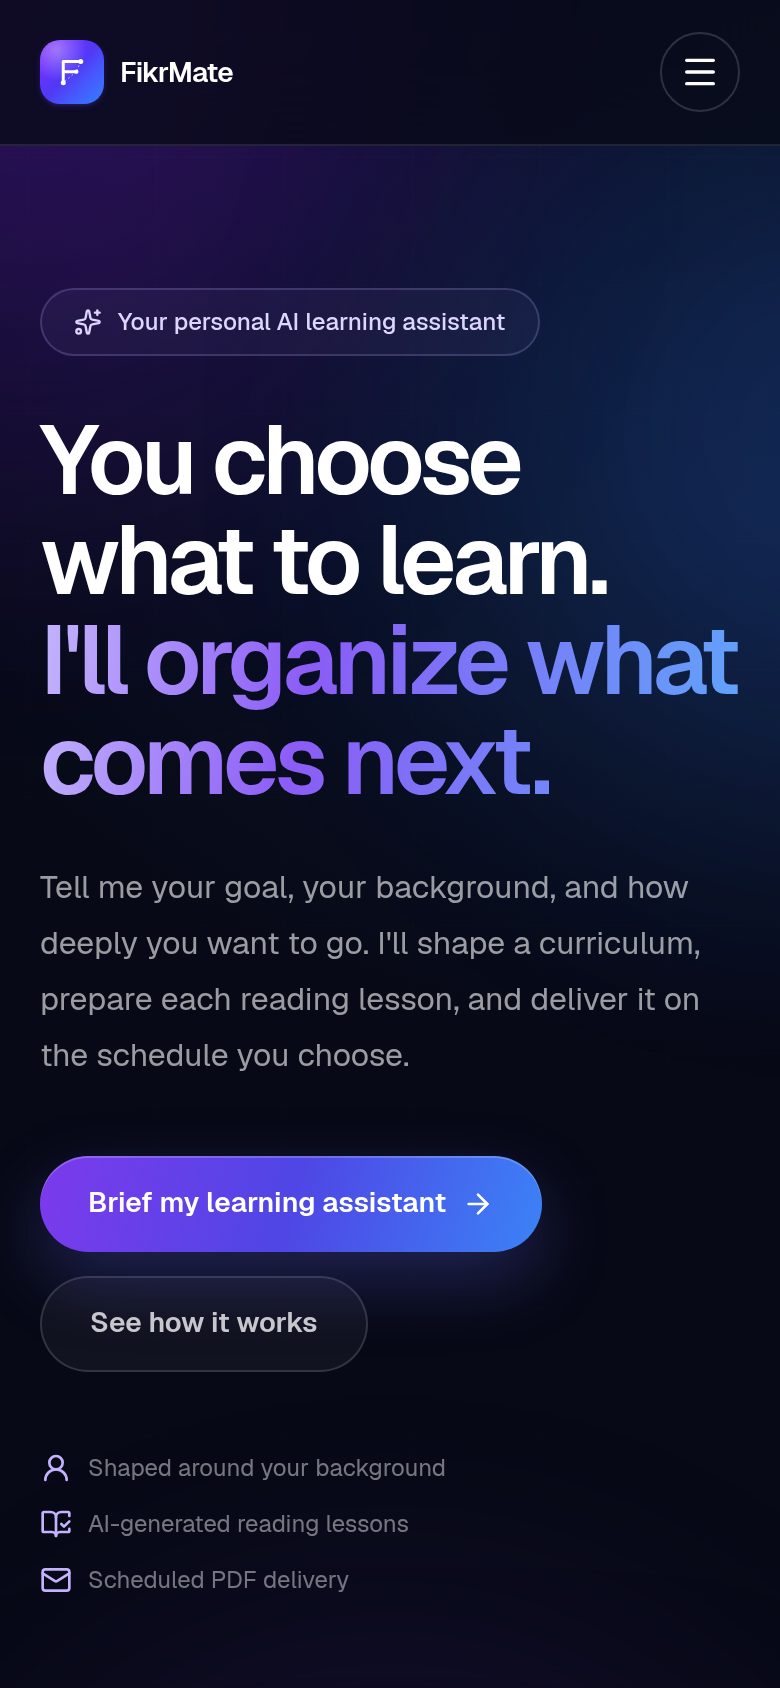
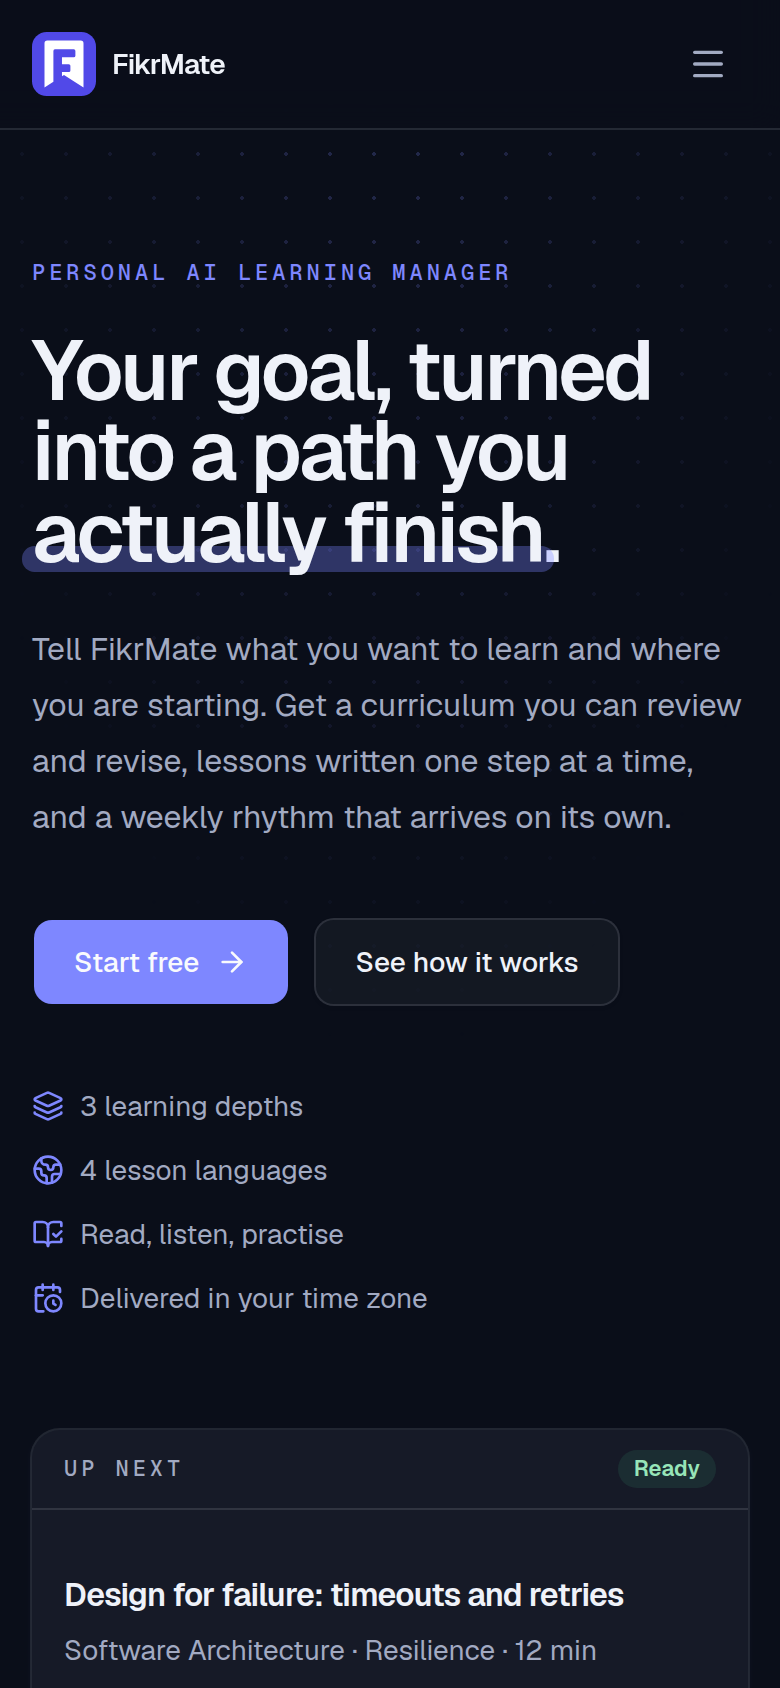
refresh fikrmate showcase for its revamped UI
Re-capture the desktop and mobile shots from the rebuilt FikrMate landing
and align the copy with what that page now says.

- capture-portfolio: FikrMate is shot in dark mode (`scheme`), and
  FIKRMATE_URL points the shot at a local or staging build before deploy.
  The injected capture CSS also hides the Next.js dev-tools badge.
- Work.astro: panel gradient derived from the new shot (bg #0a0e19) and
  the brand violet #5149e8.
- en/id/ja: new tagline, challenge, built and highlights — a curriculum
  that is revised before anything is written, one lesson in four forms,
  weekly delivery in the learner's time zone, credit ledger with refunds.
  The Indonesian tagline was untranslated English; fixed.

diff --git a/src/i18n/ja.ts b/src/i18n/ja.ts
@@ -112,11 +112,11 @@ const ja: Dict = {
         name: 'FikrMate',
         category: 'SaaS · Webアプリ',
         type: 'AI 学習プラットフォーム',
-        tagline: '学ぶものはあなたが選ぶ。次に何をやるかは、こちらが整えます。',
-        challenge: '独学の人は、散らばった教材に埋もれてしまいます。構成も、リズムも、次の一歩を用意してくれる人もいません。',
+        tagline: '目標を、最後までやり切れる学習の道筋に変える。',
+        challenge: '独学の人に足りないのは教材ではなく、多すぎることそのものです。新しい分野には自明な順序がなく、毎回「どこまでやったか」から始まり、二週目あたりで意欲が尽きます。',
         built:
-          '短い学習の希望から AI がカリキュラムを生成し、予定どおりに教材をメール（PDF）または Web で届ける Webアプリ。多言語対応、AI の個別チューター、サブスクリプションつき。',
-        highlights: ['AI カリキュラム生成', '予定配信メール', 'サブスクとクレジット', '多言語対応'],
+          '短い学習ブリーフから AI がカリキュラムを組み、書き始める前に内容を確認して修正できる Webアプリ。各レッスンは読む・聴く（メールに添付される MP3）・訊く（文脈を把握したチューター）・解く（クイズ）の四つの形で用意され、利用者のタイムゾーンに合わせて毎週届きます。消費したクレジットはすべて記録され、失敗した処理は自動で返却されます。',
+        highlights: ['修正できる AI カリキュラム', '読む・聴く・訊く・解く', 'タイムゾーンに合わせた週次配信', 'クレジット明細と自動返却', '多言語対応'],
         url: 'https://fikrmate.com',
         host: 'fikrmate.com',
         service: 'web_app',

diff --git a/src/i18n/id.ts b/src/i18n/id.ts
@@ -105,11 +105,11 @@ const id: Dict = {
         name: 'FikrMate',
         category: 'SaaS · Aplikasi web',
         type: 'Platform belajar berbasis AI',
-        tagline: 'You choose what to learn. I’ll organize what comes next.',
-        challenge: 'Pembelajar mandiri tenggelam dalam materi yang berserakan, tanpa struktur, tanpa ritme, dan tanpa ada yang menyiapkan langkah berikutnya.',
+        tagline: 'Tujuanmu, diubah jadi jalur belajar yang benar-benar kamu selesaikan.',
+        challenge: 'Pembelajar mandiri bukan kekurangan materi — justru kelimpahannya yang membuat mandek. Topik baru tidak punya urutan yang jelas, tiap sesi dibuka lagi dengan “tadi sampai mana”, dan semangat habis di minggu kedua.',
         built:
-          'Aplikasi web yang mengubah brief belajar singkat menjadi kurikulum buatan AI, lalu mengirim materi terjadwal lewat email (PDF) atau web, lengkap dengan konten multibahasa, tutor AI per materi, dan paket langganan.',
-        highlights: ['Mesin kurikulum AI', 'Pengiriman email terjadwal', 'Langganan & kredit', 'Multibahasa'],
+          'Aplikasi web yang mengubah brief belajar singkat menjadi kurikulum AI yang bisa ditinjau dan direvisi sebelum apa pun ditulis, lalu menyiapkan tiap materi dalam empat bentuk — bacaan, podcast MP3 yang dilampirkan di email, tutor yang sudah memegang konteks materinya, dan kuis — serta mengirimkannya tiap minggu sesuai zona waktu penggunanya. Setiap kredit yang terpakai tercatat, dan langkah yang gagal dikembalikan otomatis.',
+        highlights: ['Kurikulum AI yang bisa direvisi', 'Baca, dengar, tanya, latihan', 'Pengiriman mingguan sesuai zona waktu', 'Catatan kredit & refund otomatis', 'Multibahasa'],
         url: 'https://fikrmate.com',
         host: 'fikrmate.com',
         service: 'web_app',

diff --git a/src/i18n/en.ts b/src/i18n/en.ts
@@ -148,11 +148,11 @@ const en = {
         name: 'FikrMate',
         category: 'SaaS · Web app',
         type: 'AI learning platform',
-        tagline: 'You choose what to learn. I’ll organize what comes next.',
-        challenge: 'Self-learners drown in scattered material with no structure, no rhythm and no one to keep the next step ready.',
+        tagline: 'Your goal, turned into a path you actually finish.',
+        challenge: 'Self-learners are not short of material — the abundance is what stalls them. A new subject has no obvious order, every session reopens with “where was I”, and motivation runs out around week two.',
         built:
-          'A web app that turns a short learning brief into an AI-generated curriculum and delivers scheduled lessons by email (PDF) or on the web, with multilingual content, an AI lesson tutor and subscription plans.',
-        highlights: ['AI curriculum engine', 'Scheduled email delivery', 'Subscriptions & credits', 'Multilingual'],
+          'A web app that turns a short learning brief into an AI curriculum the learner reviews and revises before anything is written, then prepares every lesson in four forms — reading, a narrated MP3 attached to the email, a tutor that already has the lesson in context, and a quiz — and delivers them weekly in the learner’s own time zone. Every credit spent is logged, and steps that fail are refunded automatically.',
+        highlights: ['Revisable AI curriculum', 'Read, listen, ask, practise', 'Weekly delivery in your time zone', 'Credit ledger & auto-refunds', 'Multilingual'],
         url: 'https://fikrmate.com',
         host: 'fikrmate.com',
         service: 'web_app',

diff --git a/docs/DEVELOPMENT.md b/docs/DEVELOPMENT.md
@@ -161,15 +161,18 @@ capture script, dan screenshot tinggi.
 | --- | --- | --- |
 | `make-assets.mjs` | favicon.svg, src/assets/founder.jpg, copy di script | Menimpa OG EN/ID, apple icon, logo.png, public/founder.jpg |
 | `make-hero.mjs` | Template/copy EN/ID di script | Menimpa src/assets/hero-site-en.png dan hero-site-id.png |
-| `capture-portfolio.mjs [key...]` | URL project/demo, Chrome, BASE_URL | Menimpa src/assets/work/*.png |
+| `capture-portfolio.mjs [key...]` | URL project/demo, Chrome, BASE_URL, FIKRMATE_URL | Menimpa src/assets/work/*.png |
 | `split-shot.py file.png height` | Screenshot panjang, Python + Pillow | Potongan file -pN.png |
 | `fetch-sample-photos.mjs [arden\|kurohane]` | Manifest foto di dalam script, jaringan | Menulis `public/samples/<key>/img/*.webp` + `CREDITS.md`; melewati file yang sudah ada kecuali `--force` |
 
 Capture portfolio tanpa key juga membuka proyek eksternal. Script memerlukan
 site konsep lokal untuk Tegak/Lembar/Arden/Kurohane, default BASE_URL
-localhost:4321. Capture dijalankan dengan `reducedMotion` dan menunggu gambar
-`loading="lazy"` selesai, supaya hasilnya tidak menangkap animasi setengah jalan
-atau kotak gambar kosong. Hindari
+localhost:4321. FikrMate dipotret dengan `colorScheme: 'dark'` (field `scheme`
+pada entry-nya) karena panel di `Work.astro` disetel untuk shot gelap — mengubah
+salah satunya berarti menyetel ulang yang lain. `FIKRMATE_URL` mengarahkan shot
+itu ke build lokal atau staging sebelum di-deploy. Capture dijalankan dengan
+`reducedMotion` dan menunggu gambar `loading="lazy"` selesai, supaya hasilnya
+tidak menangkap animasi setengah jalan atau kotak gambar kosong. Hindari
 regenerasi massal saat tugas hanya copy teks; aset hasil capture dapat berbeda
 karena sumber eksternal atau browser.
 

diff --git a/README.md b/README.md
@@ -54,7 +54,7 @@ Kalau `OPENAI_API_KEY` / `GMAIL_APP_PASSWORD` kosong saat `npm run dev`, konsult
 | `node scripts/e2e-consult.mjs http://localhost:4321 id 375` | Menjalankan seluruh alur konsultasi di browser |
 | `node scripts/make-assets.mjs` | Membuat ulang gambar OG, apple-touch-icon, dan `public/founder.jpg` |
 | `node scripts/make-hero.mjs` | Membuat ulang mockup company profile di laptop hero (EN + ID). Teks & desain ada di dalam script |
-| `node scripts/capture-portfolio.mjs [key]` | Mengambil ulang screenshot desktop + HP proyek portofolio. Konsep (`public/samples/*`: `tegak`, `lembar`, `arden`, `kurohane`) diambil dari `npm run dev` sebagai satu screenshot tinggi |
+| `node scripts/capture-portfolio.mjs [key]` | Mengambil ulang screenshot desktop + HP proyek portofolio. Konsep (`public/samples/*`: `tegak`, `lembar`, `arden`, `kurohane`) diambil dari `npm run dev` sebagai satu screenshot tinggi. FikrMate dipotret dalam **tema gelap** (`scheme` di dalam script), dan `FIKRMATE_URL` mengarahkannya ke build lokal/staging alih-alih situs live |
 | `node scripts/fetch-sample-photos.mjs [arden\|kurohane]` | Mengunduh ulang foto demo konsep dari Pexels, memotong ke ukuran final, dan menulis ulang `CREDITS.md`. Tambahkan `--force` untuk menimpa file yang sudah ada |
 
 Script screenshot memakai Chrome lokal (`/usr/bin/google-chrome`); ganti lewat `CHROME_PATH` bila perlu.
